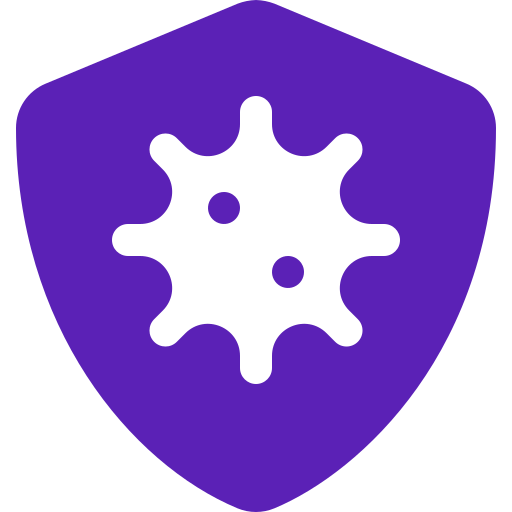
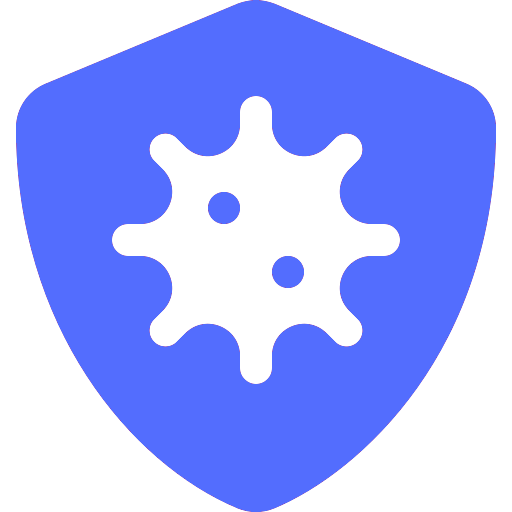
recolor

diff --git a/nuxt.config.js b/nuxt.config.js
@@ -25,7 +25,13 @@ export default {
                     'Real-time statistics tracker for the novel coronavirus (2019-nCoV), with global reports and individual country data.',
             },
         ],
-        liink: [{ rel: 'icon', type: 'image/x-icon', href: '/favicon.ico' }],
+        link: [
+            {
+                rel: 'icon',
+                type: 'image/x-icon',
+                href: 'favicon.ico?v2',
+            },
+        ],
     },
 
     // Global CSS: https://go.nuxtjs.dev/config-css
@@ -74,7 +80,7 @@ export default {
             lang: 'en',
             description:
                 'Statistics tracker for the novel coronavirus (2019-nCoV)',
-            theme_color: '#5B21B6',
+            theme_color: '#536dfe',
         },
     },
 
